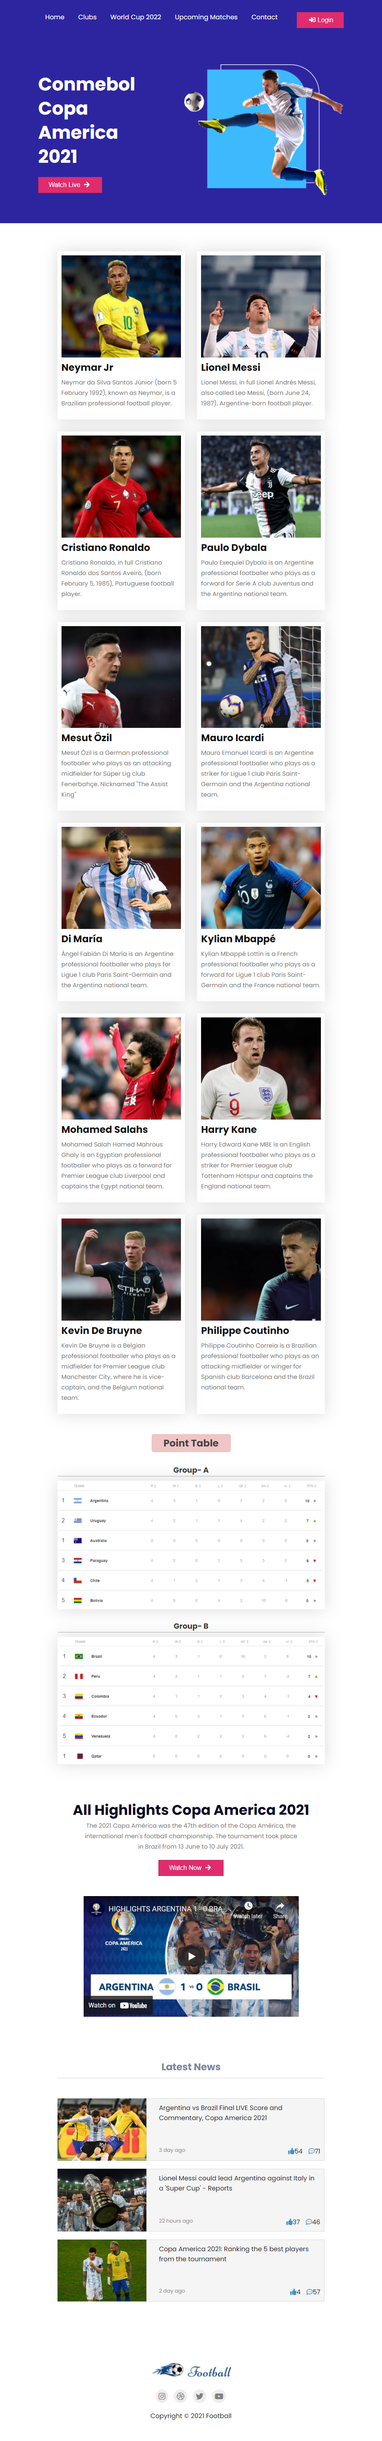
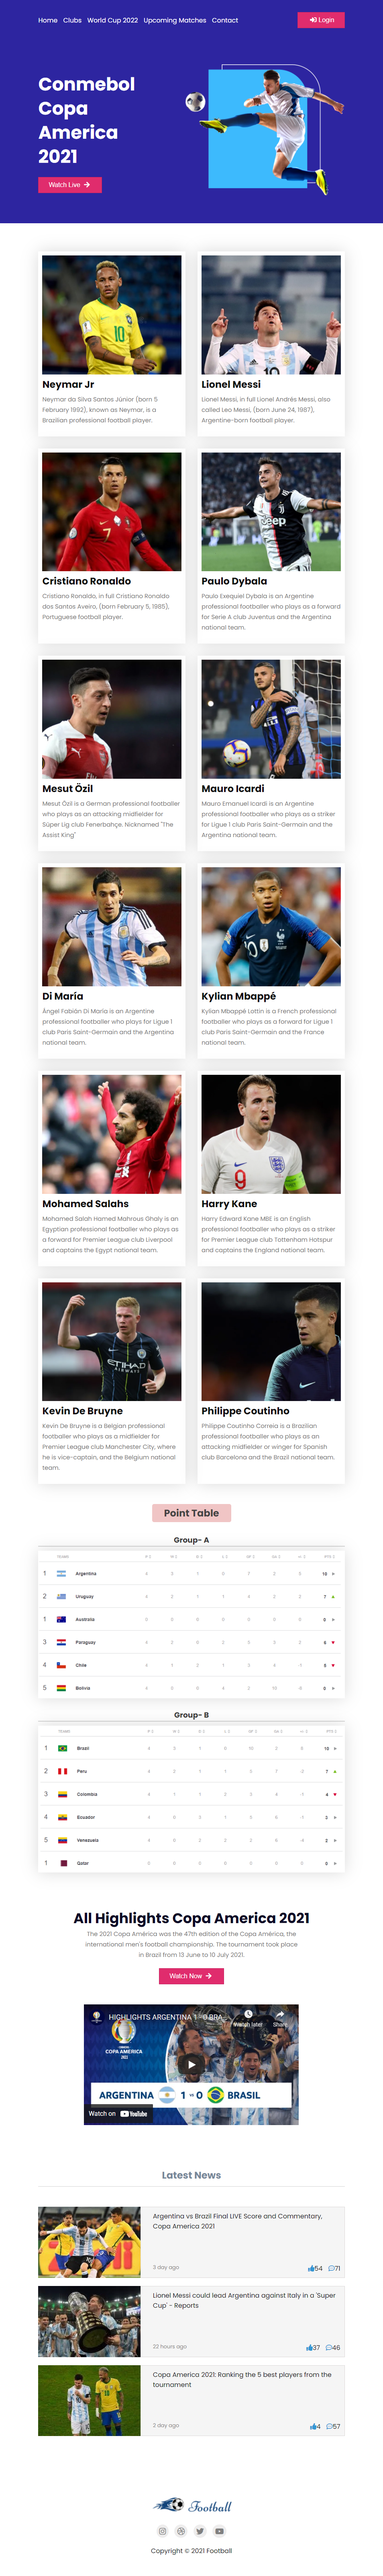
added html file comments and some style changes

diff --git a/index.html b/index.html
@@ -14,38 +14,53 @@
 </head>
 
 <body>
+
+    <!-- header part start-->
     <header>
-        <nav>
-            <div class="center-align">
-                <div class="menu-bar">
-                    <i class="fas fa-bars"></i>
-                </div>
-                <div class="menu-items">
-                    <a href="#">Home</a>
-                    <a href="#">Clubs</a>
-                    <a href="#">World Cup 2022</a>
-                    <a href="#">Upcoming Matches</a>
-                    <a href="#">Contact</a>
-                </div>
-                <button><i class="fas fa-sign-in-alt"></i>Login</button>
+
+        <!-- navigation bar start-->
+
+        <nav class="container">
+            <i class="fas fa-bars"></i>
+            <div class="menu-items">
+                <a href="#">Home</a>
+                <a href="#">Clubs</a>
+                <a href="#">World Cup 2022</a>
+                <a href="#">Upcoming Matches</a>
+                <a href="#">Contact</a>
             </div>
+            <a href="https://github.com/dev-shovon13" target="_blank"> <button><i
+                        class="fas fa-sign-in-alt"></i>Login</button></a>
         </nav>
-        <section class="top-section">
+
+        <!-- navigation bar end-->
+
+        <!-- top section start -->
+
+        <section class="top-section container">
             <div class="heading">
                 <h1>Conmebol <br>
                     Copa America<br>
                     2021
                 </h1>
-                <button>Watch Live <i class="fas fa-arrow-right"></i></button>
+                <a href="https://github.com/dev-shovon13" target="_blank"><button>Watch Live <i
+                            class="fas fa-arrow-right"></i></button>
+                </a>
             </div>
             <div class="side-image">
                 <img src="images/banner.png" alt="">
             </div>
-
         </section>
+
+        <!-- top section end -->
     </header>
+
+    <!-- header part end-->
+
+    <!-- main part start  -->
     <main>
-        <section class="players width-set">
+        <!-- players part start-->
+        <section class="players container">
             <article class="player">
                 <img src="images/players/player-1.png" alt="">
                 <h1 class="player-title">Neymar Jr</h1>
@@ -119,11 +134,13 @@
                 <p class="player-info">Philippe Coutinho Correia is a Brazilian professional footballer who plays as an
                     attacking midfielder or winger for Spanish club Barcelona and the Brazil national team.</p>
             </article>
-
         </section>
+        <!-- players part end-->
+
+        <!-- point table part start  -->
         <section class="point-table">
             <h2>Point Table</h2>
-            <div class="points">
+            <div class="points container">
                 <div class="group-1">
                     <h3 class="group">Group- A</h3>
                     <img src="images/points/group-1.png" alt="">
@@ -134,7 +151,11 @@
                 </div>
             </div>
         </section>
-        <section class="bottom-section">
+
+        <!-- point table part end  -->
+
+        <!-- bottom section start  -->
+        <section class="bottom-section container">
             <div class="highlights-heading">
                 <h1 class="highlights-title">All Highlights
                     Copa America 2021
@@ -142,17 +163,19 @@
                 <p class="highlights-paragraph">The 2021 Copa América was the 47th edition of the Copa América, the
                     international men's football championship. The tournament took place in Brazil from 13 June to 10
                     July 2021.</p>
-                <button>Watch Now <i class="fas fa-arrow-right"></i></button>
+                <a href="https://github.com/dev-shovon13" target="_blank"><button>Watch Now <i
+                            class="fas fa-arrow-right"></i></button></a>
             </div>
             <div class="highlights-side">
-                <!-- width="560" height="315"  -->
                 <iframe src="https://www.youtube.com/embed/6tLxv5EsszA" title="YouTube video player" frameborder="0"
                     allow="accelerometer; autoplay; clipboard-write; encrypted-media; gyroscope; picture-in-picture"
                     allowfullscreen></iframe>
             </div>
-
         </section>
-        <section class="news-section">
+        <!-- bottom section end  -->
+
+        <!-- news section start  -->
+        <section class="news-section container">
             <h2>Latest News</h2>
             <div class="news">
                 <article class="news-box">
@@ -208,17 +231,24 @@
                 </article>
             </div>
         </section>
+        <!-- news section end  -->
     </main>
+
+    <!-- main part end  -->
+
+    <!-- footer part start  -->
     <footer>
         <img src="images/Logo.png" alt="">
         <div class="icons">
-            <i class="fab fa-instagram"></i>
-            <i class="fab fa-dribbble"></i>
-            <i class="fab fa-twitter"></i>
-            <i class="fab fa-youtube"></i>
+            <a href="https://www.instagram.com/" target="_blank"><i class="fab fa-instagram"></i></a>
+            <a href="https://dribbble.com/" target="_blank"><i class="fab fa-dribbble"></i></a>
+            <a href="https://twitter.com/?lang=en" target="_blank"><i class="fab fa-twitter"></i></a>
+            <a href="https://www.youtube.com/" target="_blank"><i class="fab fa-youtube"></i></a>
         </div>
         <p>Copyright &copy; 2021 Football</p>
     </footer>
+
+    <!-- footer part end  -->
 </body>
 
 </html>

diff --git a/styles/style.css b/styles/style.css
@@ -12,6 +12,10 @@ body{
     font-family: 'Poppins', sans-serif;
     color: rgb(15, 15, 15);
 }
+.container{
+    width: 80%;
+    margin: auto;
+}
 button{
     background: #E02C6D;
     color: white;
@@ -35,12 +39,9 @@ header{
 
 /* nav  */
 nav{
-    width: 80%;
-    /* margin: auto; */
-}
-.center-align{
     display: flex;
     justify-content: space-between;
+    align-items: center;
     padding: 30px 0;
 }
 .fa-bars{
@@ -58,8 +59,6 @@ nav{
 }
 /* top section  */
 .top-section{
-    width: 80%;
-    margin: auto;
     padding-bottom: 60px;
     padding-top: 30px;
     display: grid;
@@ -87,16 +86,13 @@ nav{
 
 
 /* main section  */
-.width-set{
-    width: 70%;
-    margin: 70px auto;
-}
 /* players  */
 .players{
     display: grid;
     grid-template-columns: repeat(3,1fr);
     gap: 30px;
     margin-bottom: 100px;
+    margin-top: 70px;
 }
 .player{
     padding: 10px;
@@ -132,8 +128,6 @@ nav{
     margin: 30px auto;
 }
 .points{
-    width: 70%;
-    margin: auto;
     display: grid;
     grid-template-columns: repeat(2,1fr);
     gap: 20px;
@@ -153,8 +147,6 @@ nav{
 /* bottom section  */
 
 .bottom-section{
-    width: 70%;
-    margin: auto;
     padding-top: 30px;
     margin-bottom: 100px;
     display: grid;
@@ -187,7 +179,6 @@ nav{
 /* news box section  */
 
 .news-section{
-    width: 70%;
     margin: 100px auto; 
 }
 .news-section h2{
